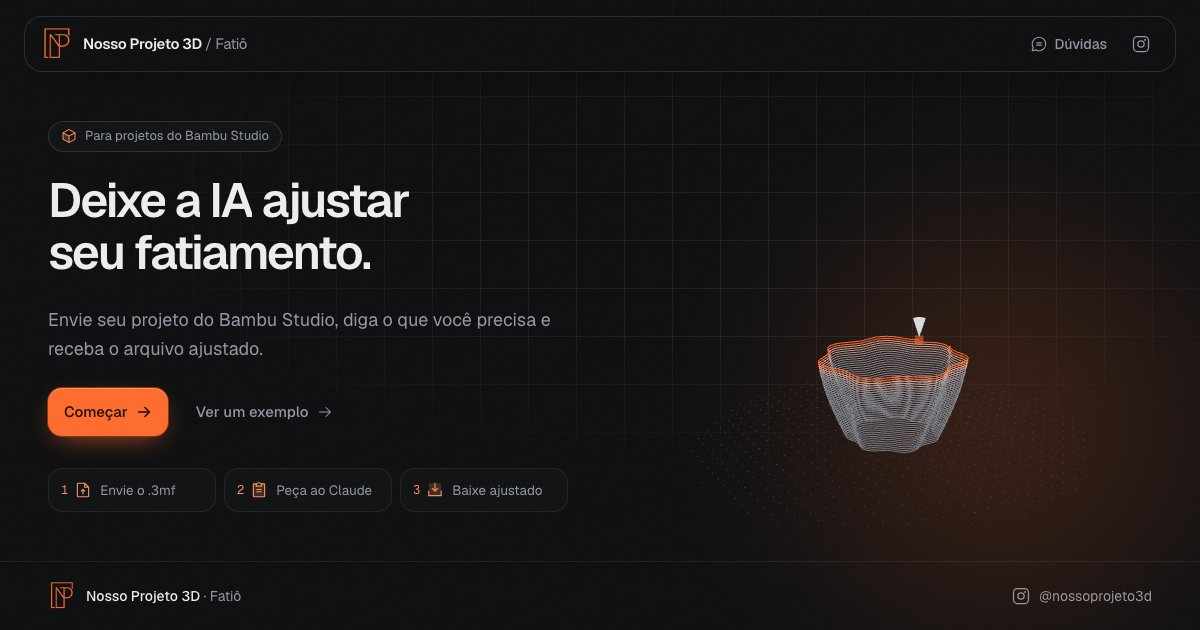
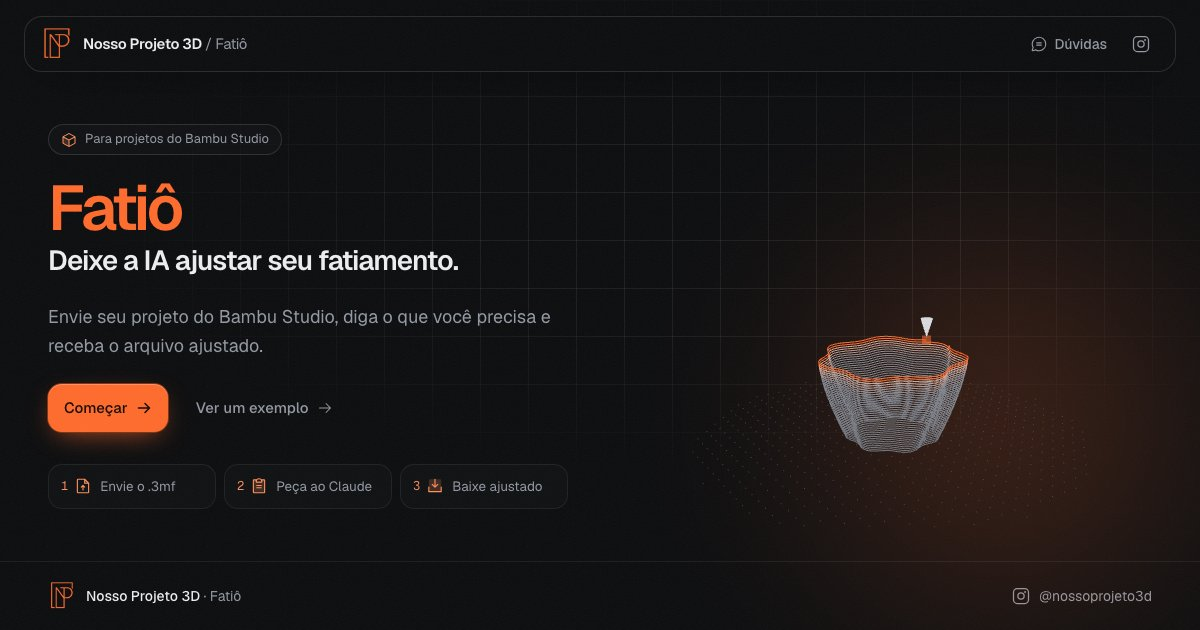
Mostrar o nome Fatiô na home e adicionar o cupom da Voolt3D
- Home: "Fatiô" grande em laranja e a frase logo abaixo; prévia do link refeita.
- Cupom NOSSOPROJETO da Voolt3D no pé da coluna das etapas (computador) e
  depois de baixar o arquivo. O clique vai ao GA como clique_afiliado
  (parceiro voolt3d), igual à calculadora, com o local do clique.

diff --git a/src/App.tsx b/src/App.tsx
@@ -33,6 +33,7 @@ import { NativeSelect } from "@/components/ui/native-select"
 import { Textarea } from "@/components/ui/textarea"
 import { Toaster } from "@/components/ui/sonner"
 import { Duvidas, Footer } from "@/components/faq"
+import { ParceiroFaixa, ParceiroLateral } from "@/components/parceiro"
 import { cn } from "@/lib/utils"
 import { track } from "@/lib/analytics"
 import { ConsentBanner } from "@/components/consent-banner"
@@ -228,26 +229,36 @@ function Stepper({
 function HeroTitle() {
   const words = "Deixe a IA ajustar seu fatiamento.".split(" ")
   return (
-    <h1 id="hero-title" className="text-[clamp(2.3rem,min(7.2vw,7.6dvh),4.75rem)] leading-[1.02] font-semibold tracking-[-0.045em]">
-      <span className="sr-only">Deixe a IA ajustar seu fatiamento.</span>
+    <h1 id="hero-title" className="grid gap-[0.35em] font-semibold">
+      <span className="sr-only">Fatiô: deixe a IA ajustar seu fatiamento.</span>
+      {/* O nome é a marca, grande e em laranja; a promessa vem logo abaixo */}
+      <span aria-hidden="true" className="block overflow-hidden pb-[0.06em]">
+        <m.span
+          className="block text-[clamp(2.6rem,min(11vw,10dvh),6.25rem)] leading-[0.95] tracking-[-0.055em] text-primary"
+          initial={{ y: "105%" }}
+          animate={{ y: 0 }}
+          transition={{ duration: 0.9, delay: 0.05, ease: EASE }}
+        >
+          Fatiô
+        </m.span>
+      </span>
       {/* O reflexo (.shine) fica em cada palavra, por dentro da animação: no Safari, o texto recortado
           num pai some quando os filhos animam numa camada própria. */}
-      <span aria-hidden="true">
+      <span aria-hidden="true" className="text-[clamp(1.4rem,min(4.2vw,4.4dvh),2.75rem)] leading-[1.1] tracking-[-0.035em]">
         {words.map((w, i) => (
           <span key={i} className="inline-block overflow-hidden pb-[0.08em] align-top">
             <m.span
               className="inline-block"
               initial={{ y: "105%" }}
               animate={{ y: 0 }}
-              transition={{ duration: 0.9, delay: 0.08 + i * 0.07, ease: EASE }}
+              transition={{ duration: 0.9, delay: 0.2 + i * 0.06, ease: EASE }}
             >
-              <span className="shine" style={{ animationDelay: `${0.9 + i * 0.12}s` }}>
+              <span className="shine" style={{ animationDelay: `${1 + i * 0.12}s` }}>
                 {w}
               </span>
-              {i < words.length - 1 && " "}
             </m.span>
           </span>
-        ))}
+        )).flatMap((el, i) => (i < words.length - 1 ? [el, " "] : [el]))}
       </span>
     </h1>
   )
@@ -689,7 +700,11 @@ export default function App() {
             aria-label="Ferramenta"
             className="mx-auto flex h-dvh max-w-6xl flex-col gap-3 px-3 pt-[84px] pb-3 sm:px-6 lg:flex-row lg:gap-6 lg:pt-[96px] lg:pb-6"
           >
-            <Stepper view={view} onSelect={goTo} reachable={reachable} done={done} />
+            {/* Coluna das etapas; no computador, o cupom fica no pé dela */}
+            <div className="flex shrink-0 flex-col justify-between gap-4 lg:w-48">
+              <Stepper view={view} onSelect={goTo} reachable={reachable} done={done} />
+              <ParceiroLateral className="max-lg:hidden" />
+            </div>
             <p role="status" aria-live="polite" className="sr-only">
               {statusText}
             </p>
@@ -921,6 +936,7 @@ export default function App() {
                               <p>Arquivo gerado. Abra no Bambu Studio e fatie de novo.</p>
                             </m.div>
                           )}
+                          {downloaded && <ParceiroFaixa />}
                           <div role="status" className="flex flex-wrap items-center gap-2 text-sm">
                             <Badge className="tabular-nums">{counts.change + (counts.change === 1 ? " pronta para aplicar" : " prontas para aplicar")}</Badge>
                             {counts.same > 0 && <Badge variant="secondary" className="tabular-nums">{counts.same + (counts.same === 1 ? " já estava assim" : " já estavam assim")}</Badge>}

diff --git a/src/components/parceiro.tsx b/src/components/parceiro.tsx
@@ -1,0 +1,82 @@
+import { ArrowUpRight } from "@phosphor-icons/react"
+
+import { track } from "@/lib/analytics"
+import { cn } from "@/lib/utils"
+
+/* Cupom da Voolt3D (link de afiliado), o mesmo da calculadora.
+   O clique vai para o GA como "clique_afiliado" (igual à calculadora), com o
+   lugar de onde veio em "local" para comparar os dois apps. */
+const VOOLT = {
+  url: "https://afiliado.c2cseller.com/voolt3d-nosso-projeto-b0e5828bb12818a1",
+  cupom: "NOSSOPROJETO",
+}
+const LOGO = `${import.meta.env.BASE_URL}voolt3d.webp`
+
+type Local = "fatio_lateral" | "fatio_pos_download"
+
+function clicou(local: Local) {
+  track("clique_afiliado", { parceiro: "voolt3d", local })
+}
+
+/** Cartão compacto da coluna das etapas (computador). */
+export function ParceiroLateral({ className }: { className?: string }) {
+  return (
+    <a
+      href={VOOLT.url}
+      target="_blank"
+      rel="sponsored noopener"
+      onClick={() => clicou("fatio_lateral")}
+      aria-label={`Até 8% de desconto em filamentos na Voolt3D com o cupom ${VOOLT.cupom} (abre em outra aba)`}
+      className={cn(
+        "group grid gap-2.5 rounded-xl border border-hairline bg-card/50 p-3 outline-none transition-[border-color,background-color] duration-300 hover:border-primary/50 hover:bg-card focus-visible:ring-[3px] focus-visible:ring-ring/50",
+        className
+      )}
+    >
+      {/* fundo branco fixo: a logo é roxa e some no fundo escuro */}
+      <span className="flex h-8 w-24 items-center justify-center rounded-md bg-white px-2">
+        <img src={LOGO} alt="" width={640} height={162} className="h-auto w-full" loading="lazy" decoding="async" />
+      </span>
+      <span className="grid gap-0.5 leading-snug">
+        <span className="text-[13px] font-medium text-foreground">Até 8% off em filamentos</span>
+        <span className="flex items-center justify-between gap-2 text-xs text-muted-foreground">
+          <span>
+            cupom <span className="font-mono font-medium text-primary-ink">{VOOLT.cupom}</span>
+          </span>
+          <ArrowUpRight
+            weight="bold"
+            aria-hidden="true"
+            className="size-3.5 shrink-0 transition-transform group-hover:-translate-y-0.5 group-hover:translate-x-0.5 group-hover:text-primary-ink"
+          />
+        </span>
+      </span>
+    </a>
+  )
+}
+
+/** Faixa que aparece depois de baixar o arquivo: a hora em que a pessoa vai imprimir. */
+export function ParceiroFaixa() {
+  return (
+    <a
+      href={VOOLT.url}
+      target="_blank"
+      rel="sponsored noopener"
+      onClick={() => clicou("fatio_pos_download")}
+      aria-label={`Vai imprimir? Até 8% de desconto em filamentos na Voolt3D com o cupom ${VOOLT.cupom} (abre em outra aba)`}
+      className="group flex items-center gap-3 rounded-xl border border-hairline-strong bg-background/50 px-3 py-2.5 outline-none transition-[border-color,background-color] duration-300 hover:border-primary/50 hover:bg-primary/[0.04] focus-visible:ring-[3px] focus-visible:ring-ring/50"
+    >
+      <span className="flex h-8 w-20 shrink-0 items-center justify-center rounded-md bg-white px-1.5">
+        <img src={LOGO} alt="" width={640} height={162} className="h-auto w-full" loading="lazy" decoding="async" />
+      </span>
+      <span className="min-w-0 flex-1 leading-snug">
+        <span className="block text-sm font-medium">Vai imprimir? Até 8% off em filamentos</span>
+        <span className="block text-xs text-muted-foreground">
+          cupom <span className="font-mono font-medium text-primary-ink">{VOOLT.cupom}</span>
+        </span>
+      </span>
+      <span className="flex shrink-0 items-center gap-1 text-[13px] font-medium text-primary-ink">
+        <span className="max-sm:hidden">Comprar</span>
+        <ArrowUpRight weight="bold" aria-hidden="true" className="size-4 transition-transform group-hover:-translate-y-0.5 group-hover:translate-x-0.5" />
+      </span>
+    </a>
+  )
+}

diff --git a/index.html b/index.html
@@ -24,7 +24,7 @@
     <meta property="og:image:type" content="image/jpeg" />
     <meta property="og:image:width" content="1200" />
     <meta property="og:image:height" content="630" />
-    <meta property="og:image:alt" content="Tela do Fatiô: título Deixe a IA ajustar seu fatiamento ao lado de um vaso sendo impresso em 3D" />
+    <meta property="og:image:alt" content="Tela do Fatiô: nome Fatiô e a frase Deixe a IA ajustar seu fatiamento ao lado de um vaso sendo impresso em 3D" />
     <meta name="twitter:card" content="summary_large_image" />
     <meta name="twitter:title" content="Fatiô: deixe a IA ajustar seu fatiamento" />
     <meta name="twitter:description" content="Envie seu arquivo 3MF e deixe a IA sugerir as melhores configurações. Você aprova e baixa o 3MF pronto para o Bambu Studio." />

diff --git a/CLAUDE.md b/CLAUDE.md
@@ -31,6 +31,7 @@ Todo push na `main` dispara o `.github/workflows/deploy.yml`, que roda os testes
 - `src/components/faq.tsx`: dúvidas numa gaveta lateral (botão "Dúvidas" do cabeçalho), cada uma recolhida, e o rodapé.
 - `src/lib/threemf.js`: leitura, validação e gravação do 3MF, **sem dependências** (ZIP próprio). Toda mudança aqui precisa de teste em `tests/threemf.test.mjs`.
 - `src/lib/analytics.ts` + `src/components/consent-banner.tsx`: medição com consentimento.
+- `src/components/parceiro.tsx`: cupom da Voolt3D (link de afiliado e cupom iguais aos da calculadora). Fica no pé da coluna das etapas (só no computador) e aparece depois de baixar o arquivo (todos). O clique vai ao GA como `clique_afiliado` com `parceiro: voolt3d` (igual à calculadora) e `local: fatio_lateral | fatio_pos_download`.
 - `src/components/ui/`: componentes do shadcn. Só `native-select.tsx`, `sonner.tsx` e `sheet.tsx` (import do `cn` corrigido para `@/lib/utils`; o CLI tentou instalar o pacote `cn` do npm) foram modificados (ícones do Phosphor); não edite os outros, prefira compor por fora.
 - `src/index.css`: tokens de cor, fontes, grão do fundo, borda que acende sob o cursor e brilho do título.
 
